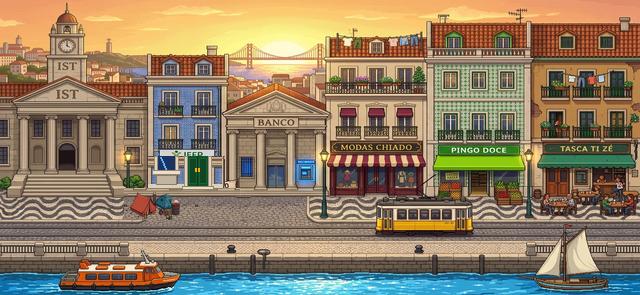
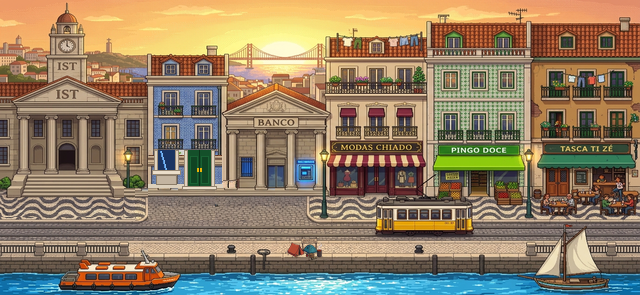
fix(board): restore continuous curved curb, harmonize IST calcada, and reposition Acampada to promenade

Changed region(s): [[0.0938, 0.4881, 0.4375, 0.7627], [0.4375, 0.7932, 0.5, 0.8847], [0.0, 0.7322, 0.0625, 0.7627]]

diff --git a/index.html b/index.html
@@ -198,10 +198,10 @@
         #arcade-toolbar {
             width: 100%;
             display: flex;
-            justify-content: center;
+            flex-direction: column;
             align-items: center;
-            flex-wrap: wrap;
-            gap: 8px;
+            justify-content: center;
+            gap: 6px;
             padding: 4px 6px 8px;
             box-sizing: border-box;
             text-align: center;
@@ -211,13 +211,14 @@
             color: #94a3b8;
             text-decoration: none;
             background: rgba(15, 23, 42, 0.9);
-            padding: 5px 10px;
+            padding: 4px 10px;
             border-radius: 4px;
             border: 1px solid rgba(255, 255, 255, 0.15);
-            font-size: 0.68rem;
+            font-size: 0.65rem;
             font-weight: 700;
             transition: all 0.2s ease;
             white-space: nowrap;
+            margin-bottom: 2px;
         }
         .arcade-link:hover {
             color: #fbbf24;
@@ -225,11 +226,13 @@
         }
 
         .arcade-actions {
+            width: 100%;
             display: flex;
             gap: 6px;
             flex-wrap: wrap;
             align-items: center;
             justify-content: center;
+            text-align: center;
         }
 
         .arcade-btn {
@@ -1780,7 +1783,7 @@ const BUILDINGS = [
     { id: 'miradouro', name: 'Miradouro', x: 0, y: 220, w: 140, h: 75, color: '#0369a1', accent: '#38bdf8', tag: 'DESCANSO & BOÉMIA', icon: '🌅', doorX: 65, doorY: 245, desc: 'O Boémio — Vista sobre o Tejo, descanso, fado à guitarra e tertúlias.' },
     { id: 'faculdade', name: 'Politec / IST', x: 0, y: 15, w: 146, h: 175, color: '#1e3a8a', accent: '#38bdf8', tag: 'ESTUDOS / ECTS', icon: '🎓', doorX: 72, doorY: 185, desc: 'Prof. Leitão — Aulas, cadeiras sequenciais e exames para o canudo no IST.' },
     { id: 'startup', name: 'IEFP / Emprego', x: 175, y: 35, w: 48, h: 155, color: '#065f46', accent: '#10b981', tag: 'IEFP & CARREIRAS', icon: '💼', doorX: 198, doorY: 195, desc: 'D. Mariana (IEFP, 45 anos) — Centro de Emprego, Orientação e Dossier Curricular.' },
-    { id: 'acampada', name: 'Acampada da Habitação', x: 122, y: 182, w: 50, h: 38, color: '#dc2626', accent: '#f87171', tag: 'HABITAÇÃO & LUTA', icon: '⛺', doorX: 148, doorY: 206, desc: 'Inês — Vigília popular e assembleia pelo direito à habitação e turnos solidários.' },
+    { id: 'acampada', name: 'Acampada da Habitação', x: 282, y: 232, w: 66, h: 28, color: '#dc2626', accent: '#f87171', tag: 'HABITAÇÃO & LUTA', icon: '⛺', doorX: 342, doorY: 247, desc: 'Inês — Vigília popular e assembleia pelo direito à habitação e turnos solidários.' },
     { id: 'banco', name: 'Caixa / Banco', x: 222, y: 70, w: 104, h: 125, color: '#854d0e', accent: '#facc15', tag: 'BANCA & CRÉDITO', icon: '🏦', doorX: 275, doorY: 195, desc: 'Dr. Alcoviteiro — Poupança, Multibanco e carreiras financeiras.' },
     { id: 'loja_roupa', name: 'Loja de Roupa', x: 326, y: 70, w: 100, h: 125, color: '#db2777', accent: '#f472b6', tag: 'MODAS CHIADO', icon: '👗', doorX: 376, doorY: 195, desc: 'D. Zulmira — Fatos de gala, alfaiataria, trajes académicos e ateliê de costura.' },
     { id: 'supermercado', name: 'Pingo Doce', x: 426, y: 70, w: 104, h: 125, color: '#15803d', accent: '#86efac', tag: 'DESPENSA & RETALHO', icon: '🛒', doorX: 478, doorY: 195, desc: 'D. Maria — Mantimentos e carreiras de supermercado.' },
@@ -1877,7 +1880,7 @@ const LIVING_NPCS = [
     {
         id: 'ines_acampada',
         name: 'Inês (Acampada)',
-        x: 168, y: 202, radius: 20,
+        x: 340, y: 247, radius: 20,
         quotes: [
             "Habitação é um direito, não é um privilégio de fundos abutres!",
             "Junta-te à nossa vigília popular no Rossio: partilhamos sopa quente e coragem.",
@@ -1939,31 +1942,31 @@ function renderBoardLivingCharacters(ctx, animTimer) {
         ctx.fillRect(px2, py2 - 6 + Math.round(talkBob * 0.5), 4, 2);
     }
 
-    // 2. FOGAREIRO & CHAMA DA ACAMPADA DO ROSSIO (x: 166..172, y: 196..204)
-    // Brilho quente do fogo na calçada do Rossio
+    // 2. FOGAREIRO & CHAMA DA ACAMPADA (Passeio Ribeirinho junto ao Tejo: x: 326..332, y: 243..250)
+    // Brilho quente do fogo no cais ribeirinho ao pôr-do-sol
     const fireFlicker = Math.sin(animTimer * 12) * 1.5 + Math.cos(animTimer * 19) * 0.8;
     const fireRadius = 14 + fireFlicker;
-    const fireGrad = ctx.createRadialGradient(168, 200, 2, 168, 200, Math.max(6, fireRadius));
+    const fireGrad = ctx.createRadialGradient(328, 247, 2, 328, 247, Math.max(6, fireRadius));
     fireGrad.addColorStop(0, 'rgba(251, 146, 60, 0.45)');
     fireGrad.addColorStop(0.5, 'rgba(239, 68, 68, 0.20)');
     fireGrad.addColorStop(1, 'rgba(239, 68, 68, 0)');
     ctx.fillStyle = fireGrad;
     ctx.beginPath();
-    ctx.arc(168, 200, Math.max(6, fireRadius), 0, Math.PI * 2);
+    ctx.arc(328, 247, Math.max(6, fireRadius), 0, Math.PI * 2);
     ctx.fill();
 
     // Línguas de fogo animadas em pixel art
     const flameH = Math.round(3 + Math.abs(Math.sin(animTimer * 14)) * 3);
     ctx.fillStyle = '#f97316';
-    ctx.fillRect(167, 198 - flameH, 2, flameH);
+    ctx.fillRect(327, 245 - flameH, 2, flameH);
     ctx.fillStyle = '#fef08a';
-    ctx.fillRect(168, 199 - Math.round(flameH * 0.6), 1, Math.round(flameH * 0.6));
+    ctx.fillRect(328, 246 - Math.round(flameH * 0.6), 1, Math.round(flameH * 0.6));
 
     // Fumo subtil a subir em direção ao céu lisboeta
     for (let f = 0; f < 3; f++) {
         const fProg = ((animTimer * 1.2 + f * 0.9) % 2.5) / 2.5;
-        const fx = 168 + Math.sin(animTimer * 2.5 + f * 2) * 3;
-        const fy = 194 - fProg * 14;
+        const fx = 328 + Math.sin(animTimer * 2.5 + f * 2) * 3;
+        const fy = 241 - fProg * 14;
         const fAlpha = (1 - fProg) * 0.35;
         ctx.fillStyle = `rgba(226, 232, 240, ${fAlpha.toFixed(2)})`;
         ctx.fillRect(Math.round(fx), Math.round(fy), 2, 2);
@@ -1999,16 +2002,16 @@ function renderBoardLivingCharacters(ctx, animTimer) {
         const pingoFrame = (Math.floor(animTimer * 0.6) % 4 === 2) ? 1 : 0;
         ctx.drawImage(npcsLucasImg, pingoFrame * 48, 144, 48, 48, 474, 142, 48, 48);
 
-        // E. Inês da Acampada no Rossio (Row 2: sy=96, sw=48, sh=48)
+        // E. Inês da Acampada (Vigília Popular no Cais Ribeirinho / Row 2: sy=96, sw=48, sh=48)
         const inesFrame = Math.floor(animTimer * 2.8) % 2;
-        ctx.drawImage(npcsLucasImg, inesFrame * 48, 96, 48, 48, 148, 168, 48, 48);
+        ctx.drawImage(npcsLucasImg, inesFrame * 48, 96, 48, 48, 316, 204, 48, 48);
         
         // Notas musicais flutuantes da viola acústica da Inês (♪ ♫)
         const noteCycle = (animTimer * 1.3) % 2.8;
         if (noteCycle < 2.2) {
             const noteProg = noteCycle / 2.2;
-            const noteX = 166 + Math.sin(noteProg * 4.5) * 4;
-            const noteY = 172 - noteProg * 16;
+            const noteX = 336 + Math.sin(noteProg * 4.5) * 4;
+            const noteY = 208 - noteProg * 16;
             const noteAlpha = (1 - noteProg) * 0.9;
             ctx.fillStyle = `rgba(251, 191, 36, ${noteAlpha.toFixed(2)})`;
             ctx.font = '8px "Press Start 2P"';
@@ -2235,7 +2238,7 @@ ctx.imageSmoothingEnabled = false;
 // ============================================================================
 // 16-BIT BITMAPPED RETRO ASSETS (STARDEW VALLEY / EASTWARD FIDELITY)
 // ============================================================================
-const ASSET_VER = '3.0';
+const ASSET_VER = '3.3';
 const boardImg = new Image();
 boardImg.src = `assets/board.png?v=${ASSET_VER}`;
 
